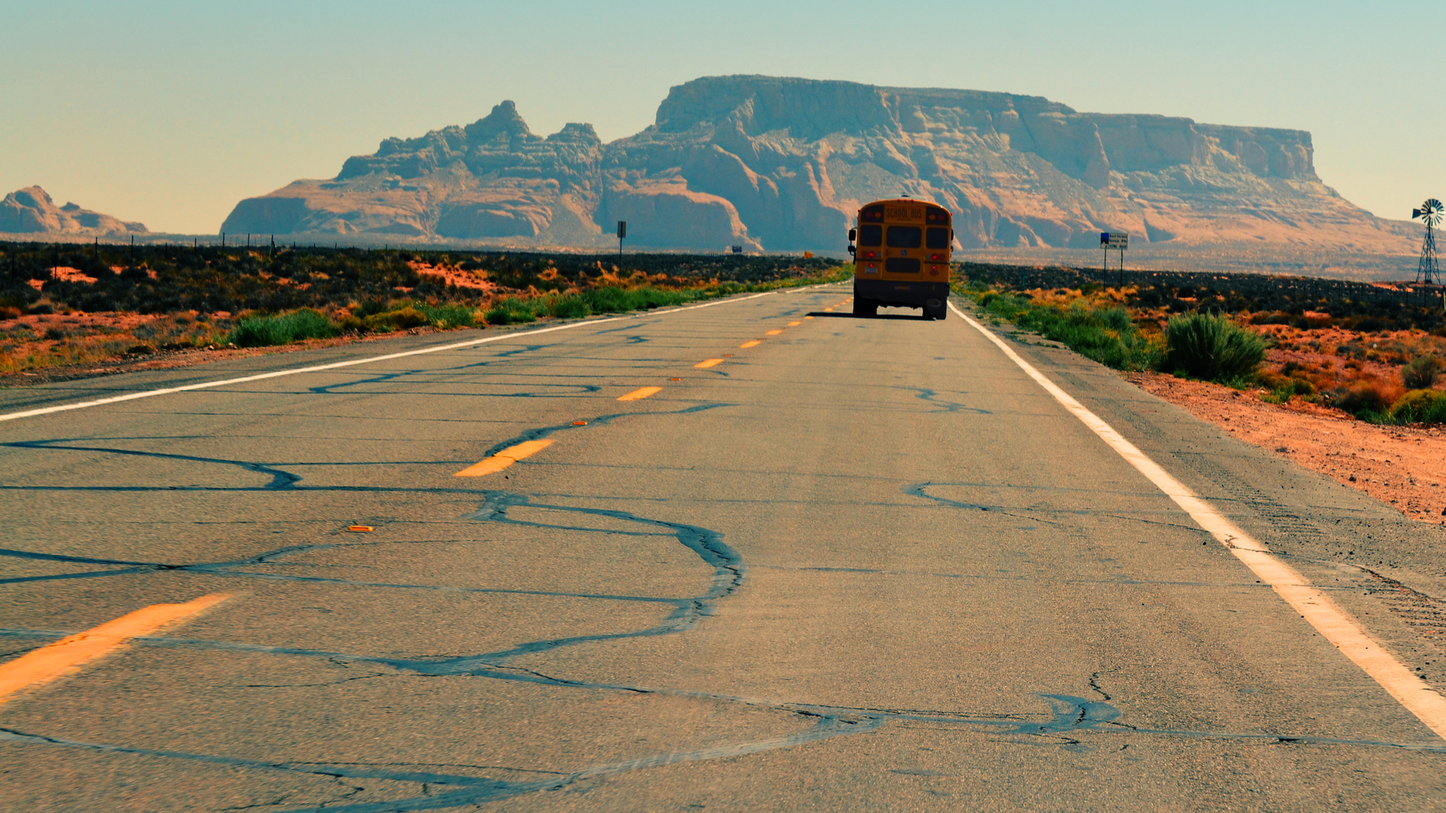
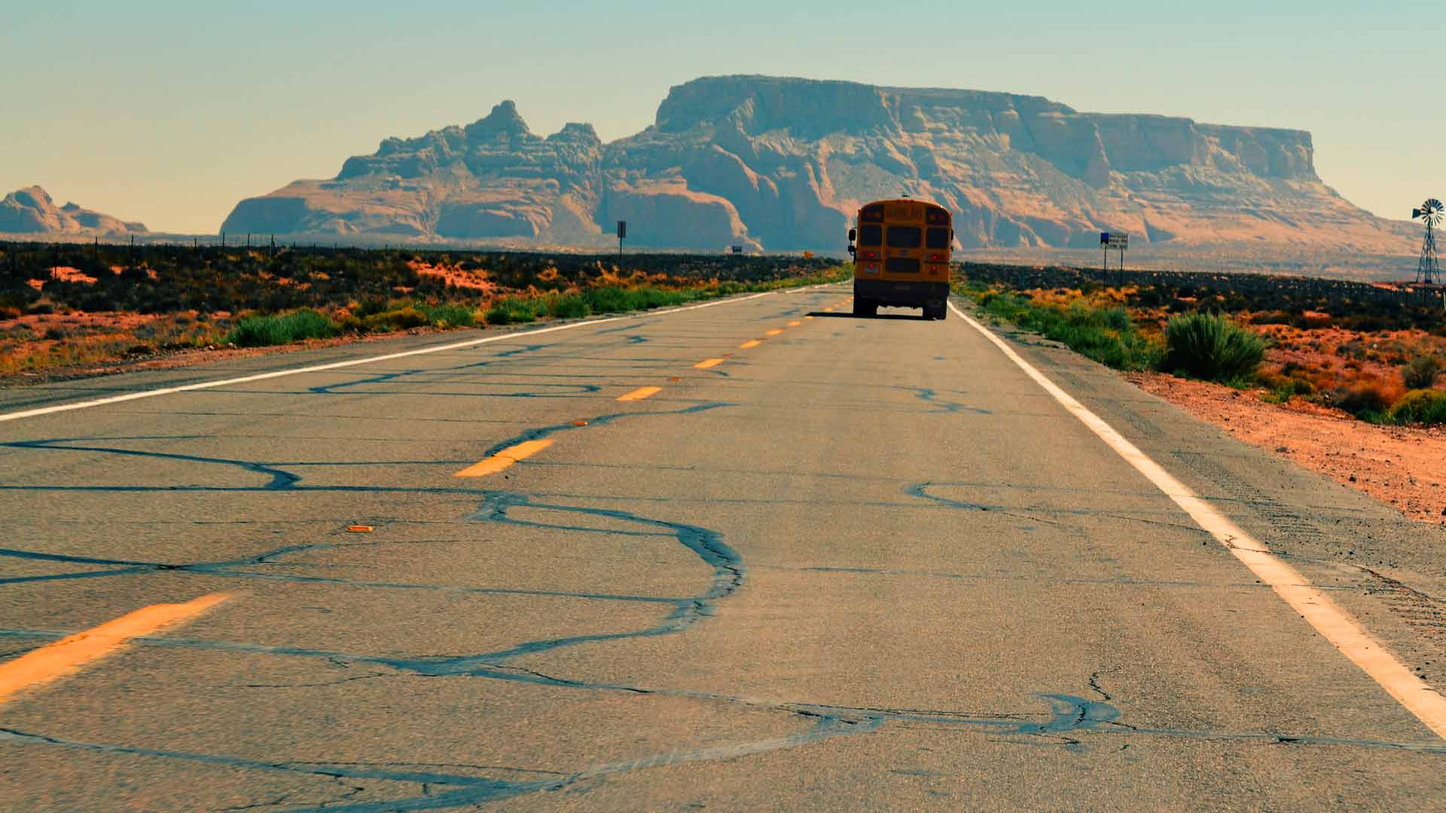
Added support for high res images for retina displays in HTML (via retian.js) and in background (via CSS media queries) - issues 26 & 27. - Compressed (in PS) the two existing background images so they're a more reasonable size.  Committed original, larger files as boywbackpack_original.jpg and scho

diff --git a/assets/js/retina.js b/assets/js/retina.js
@@ -1,0 +1,182 @@
+/*!
+ * Retina.js v1.3.0
+ *
+ * Copyright 2014 Imulus, LLC
+ * Released under the MIT license
+ *
+ * Retina.js is an open source script that makes it easy to serve
+ * high-resolution images to devices with retina displays.
+ */
+
+(function() {
+    var root = (typeof exports === 'undefined' ? window : exports);
+    var config = {
+        // An option to choose a suffix for 2x images
+        retinaImageSuffix : '@2x',
+
+        // Ensure Content-Type is an image before trying to load @2x image
+        // https://github.com/imulus/retinajs/pull/45)
+        check_mime_type: true,
+
+        // Resize high-resolution images to original image's pixel dimensions
+        // https://github.com/imulus/retinajs/issues/8
+        force_original_dimensions: true
+    };
+
+    function Retina() {}
+
+    root.Retina = Retina;
+
+    Retina.configure = function(options) {
+        if (options === null) {
+            options = {};
+        }
+
+        for (var prop in options) {
+            if (options.hasOwnProperty(prop)) {
+                config[prop] = options[prop];
+            }
+        }
+    };
+
+    Retina.init = function(context) {
+        if (context === null) {
+            context = root;
+        }
+
+        var existing_onload = context.onload || function(){};
+
+        context.onload = function() {
+            var images = document.getElementsByTagName('img'), retinaImages = [], i, image;
+            for (i = 0; i < images.length; i += 1) {
+                image = images[i];
+                if (!!!image.getAttributeNode('data-no-retina')) {
+                    retinaImages.push(new RetinaImage(image));
+                }
+            }
+            existing_onload();
+        };
+    };
+
+    Retina.isRetina = function(){
+        var mediaQuery = '(-webkit-min-device-pixel-ratio: 1.5), (min--moz-device-pixel-ratio: 1.5), (-o-min-device-pixel-ratio: 3/2), (min-resolution: 1.5dppx)';
+
+        if (root.devicePixelRatio > 1) {
+            return true;
+        }
+
+        if (root.matchMedia && root.matchMedia(mediaQuery).matches) {
+            return true;
+        }
+
+        return false;
+    };
+
+
+    var regexMatch = /\.\w+$/;
+    function suffixReplace (match) {
+        return config.retinaImageSuffix + match;
+    }
+
+    function RetinaImagePath(path, at_2x_path) {
+        this.path = path || '';
+        if (typeof at_2x_path !== 'undefined' && at_2x_path !== null) {
+            this.at_2x_path = at_2x_path;
+            this.perform_check = false;
+        } else {
+            if (undefined !== document.createElement) {
+                var locationObject = document.createElement('a');
+                locationObject.href = this.path;
+                locationObject.pathname = locationObject.pathname.replace(regexMatch, suffixReplace);
+                this.at_2x_path = locationObject.href;
+            } else {
+                var parts = this.path.split('?');
+                parts[0] = parts[0].replace(regexMatch, suffixReplace);
+                this.at_2x_path = parts.join('?');
+            }
+            this.perform_check = true;
+        }
+    }
+
+    root.RetinaImagePath = RetinaImagePath;
+
+    RetinaImagePath.confirmed_paths = [];
+
+    RetinaImagePath.prototype.is_external = function() {
+        return !!(this.path.match(/^https?\:/i) && !this.path.match('//' + document.domain) );
+    };
+
+    RetinaImagePath.prototype.check_2x_variant = function(callback) {
+        var http, that = this;
+        if (this.is_external()) {
+            return callback(false);
+        } else if (!this.perform_check && typeof this.at_2x_path !== 'undefined' && this.at_2x_path !== null) {
+            return callback(true);
+        } else if (this.at_2x_path in RetinaImagePath.confirmed_paths) {
+            return callback(true);
+        } else {
+            http = new XMLHttpRequest();
+            http.open('HEAD', this.at_2x_path);
+            http.onreadystatechange = function() {
+                if (http.readyState !== 4) {
+                    return callback(false);
+                }
+
+                if (http.status >= 200 && http.status <= 399) {
+                    if (config.check_mime_type) {
+                        var type = http.getResponseHeader('Content-Type');
+                        if (type === null || !type.match(/^image/i)) {
+                            return callback(false);
+                        }
+                    }
+
+                    RetinaImagePath.confirmed_paths.push(that.at_2x_path);
+                    return callback(true);
+                } else {
+                    return callback(false);
+                }
+            };
+            http.send();
+        }
+    };
+
+
+    function RetinaImage(el) {
+        this.el = el;
+        this.path = new RetinaImagePath(this.el.getAttribute('src'), this.el.getAttribute('data-at2x'));
+        var that = this;
+        this.path.check_2x_variant(function(hasVariant) {
+            if (hasVariant) {
+                that.swap();
+            }
+        });
+    }
+
+    root.RetinaImage = RetinaImage;
+
+    RetinaImage.prototype.swap = function(path) {
+        if (typeof path === 'undefined') {
+            path = this.path.at_2x_path;
+        }
+
+        var that = this;
+        function load() {
+            if (! that.el.complete) {
+                setTimeout(load, 5);
+            } else {
+                if (config.force_original_dimensions) {
+                    that.el.setAttribute('width', that.el.offsetWidth);
+                    that.el.setAttribute('height', that.el.offsetHeight);
+                }
+
+                that.el.setAttribute('src', path);
+            }
+        }
+        load();
+    };
+
+
+    if (Retina.isRetina()) {
+        Retina.init(root);
+    }
+})();

diff --git a/assets/js/retina.min.js b/assets/js/retina.min.js
@@ -1,0 +1,10 @@
+/*!
+ * Retina.js v1.3.0
+ *
+ * Copyright 2014 Imulus, LLC
+ * Released under the MIT license
+ *
+ * Retina.js is an open source script that makes it easy to serve
+ * high-resolution images to devices with retina displays.
+ */
+!function(){function a(){}function b(a){return f.retinaImageSuffix+a}function c(a,c){if(this.path=a||"","undefined"!=typeof c&&null!==c)this.at_2x_path=c,this.perform_check=!1;else{if(void 0!==document.createElement){var d=document.createElement("a");d.href=this.path,d.pathname=d.pathname.replace(g,b),this.at_2x_path=d.href}else{var e=this.path.split("?");e[0]=e[0].replace(g,b),this.at_2x_path=e.join("?")}this.perform_check=!0}}function d(a){this.el=a,this.path=new c(this.el.getAttribute("src"),this.el.getAttribute("data-at2x"));var b=this;this.path.check_2x_variant(function(a){a&&b.swap()})}var e="undefined"==typeof exports?window:exports,f={retinaImageSuffix:"@2x",check_mime_type:!0,force_original_dimensions:!0};e.Retina=a,a.configure=function(a){null===a&&(a={});for(var b in a)a.hasOwnProperty(b)&&(f[b]=a[b])},a.init=function(a){null===a&&(a=e);var b=a.onload||function(){};a.onload=function(){var a,c,e=document.getElementsByTagName("img"),f=[];for(a=0;a<e.length;a+=1)c=e[a],c.getAttributeNode("data-no-retina")||f.push(new d(c));b()}},a.isRetina=function(){var a="(-webkit-min-device-pixel-ratio: 1.5), (min--moz-device-pixel-ratio: 1.5), (-o-min-device-pixel-ratio: 3/2), (min-resolution: 1.5dppx)";return e.devicePixelRatio>1?!0:e.matchMedia&&e.matchMedia(a).matches?!0:!1};var g=/\.\w+$/;e.RetinaImagePath=c,c.confirmed_paths=[],c.prototype.is_external=function(){return!(!this.path.match(/^https?\:/i)||this.path.match("//"+document.domain))},c.prototype.check_2x_variant=function(a){var b,d=this;return this.is_external()?a(!1):this.perform_check||"undefined"==typeof this.at_2x_path||null===this.at_2x_path?this.at_2x_path in c.confirmed_paths?a(!0):(b=new XMLHttpRequest,b.open("HEAD",this.at_2x_path),b.onreadystatechange=function(){if(4!==b.readyState)return a(!1);if(b.status>=200&&b.status<=399){if(f.check_mime_type){var e=b.getResponseHeader("Content-Type");if(null===e||!e.match(/^image/i))return a(!1)}return c.confirmed_paths.push(d.at_2x_path),a(!0)}return a(!1)},b.send(),void 0):a(!0)},e.RetinaImage=d,d.prototype.swap=function(a){function b(){c.el.complete?(f.force_original_dimensions&&(c.el.setAttribute("width",c.el.offsetWidth),c.el.setAttribute("height",c.el.offsetHeight)),c.el.setAttribute("src",a)):setTimeout(b,5)}"undefined"==typeof a&&(a=this.path.at_2x_path);var c=this;b()},a.isRetina()&&a.init(e)}();

diff --git a/assets/css/main.css b/assets/css/main.css
@@ -3965,7 +3965,6 @@ div.preloading #sidebar nav ul li {
                     background-color: #A6426C;
                 }
 }
-/* End of copied over */
 
 @media screen and (max-width: 736px) {
 
@@ -3978,7 +3977,6 @@ div.preloading #sidebar nav ul li {
 
 #intro {
     background-attachment: fixed;
-    /* differences from template... */
     background: url("images/intro.svg"), linear-gradient(to bottom right, rgba(30, 46, 73, 0.70), rgba(30, 46, 73, 0.70)), url("images/boywbackpack.jpg") no-repeat center center fixed;
     -webkit-background-size: cover;
     -moz-background-size: cover;
@@ -4422,7 +4420,21 @@ ul.callout li {
     /*-ms-transform: translateY(-100%); /* IE 9 */
     /*transform: translateY(-100%); /* Firefox 16+, IE 10+, Opera */
     /*-webkit-transition: all 0.3s 1s ease-out;
-    /*transition: all 0.3s 1s ease-out;
+    /*transition: all 0.3s 1s ease-out; */
 }
 
 /* State dropdown styling */
+
+/* High-res styles */
+@media only screen and (-webkit-min-device-pixel-ratio: 2),(min-resolution: 192dpi) {
+
+    #intro {
+        background: linear-gradient(to bottom right, rgba(30, 46, 73, 0.70), rgba(30, 46, 73, 0.70)), url("images/placeholder_highres_1.jpg") no-repeat center center fixed;
+        background-size: cover;
+    }
+
+    .image1 {
+        background: linear-gradient(to bottom right, rgba(30, 46, 73, 0.70), rgba(30, 46, 73, 0.70)), url("images/placeholder_highres_2.jpg") no-repeat center center fixed;
+        background-size: cover;
+    }
+}

diff --git a/index.html b/index.html
@@ -34,6 +34,9 @@
     <script src="assets/js/chart-functions.js"></script>
     <script src="assets/js/graph-scroll.js"></script>
 
+    <!-- Substitutes high-res images for Retina displays (html file only) -->
+    <script type="text/javascript" src="assets/js/retina.js"></script>
+    
 </head>
 <body>
 
